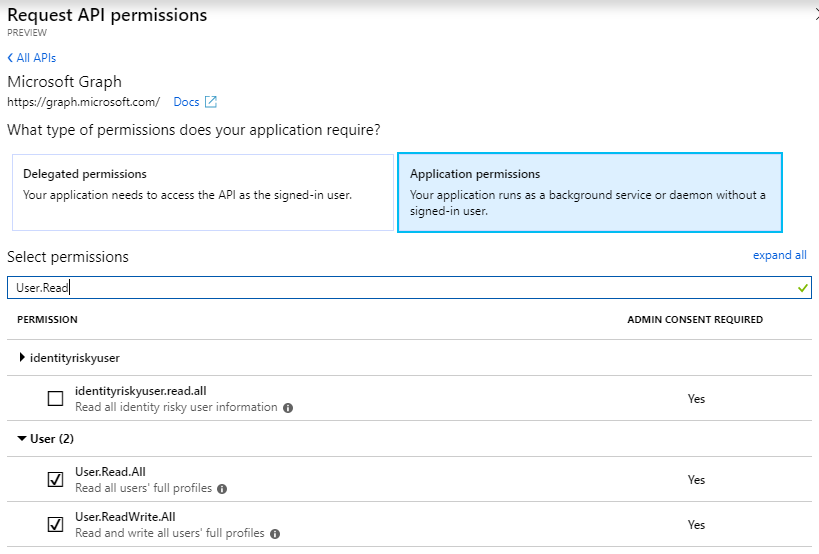
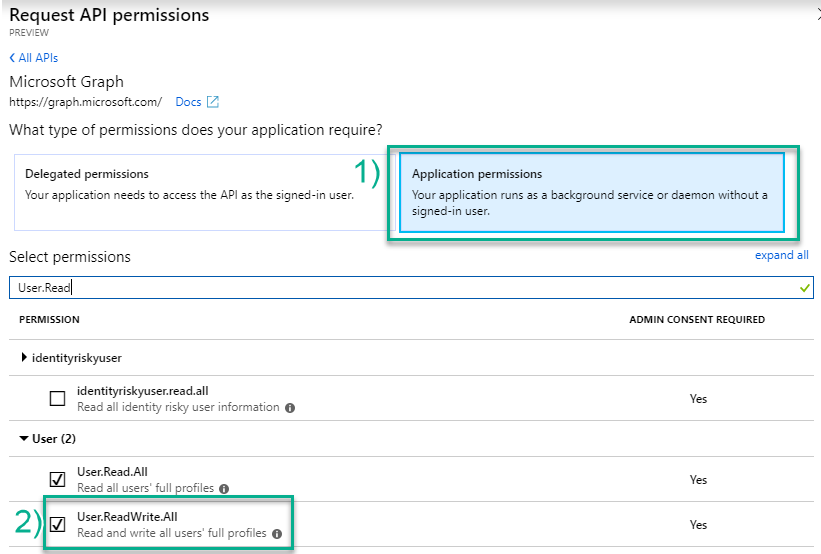
fixing images and typos

diff --git a/day16-create-user/README.md b/day16-create-user/README.md
@@ -2,7 +2,7 @@
 
 - [Day 16 - Create a new User](#day-16-create-a-new-user)
     - [Prerequisites](#prerequisites)
-    - [Step 1: Update the App Registration permissions](#step-1-update-the-app-rgistration-permissions)
+    - [Step 1: Update the App Registration permissions](#step-1-update-the-app-registration-permissions)
     - [Step 2: Extend the app to create users](#step-2-extend-the-app-to-create-users)
         - [Create the UserHelper class](#create-the-userhelper-class)
         - [Extend program to create users](#extend-program-to-create-users)
@@ -53,7 +53,7 @@ As this exercise requires new permissions the App Registration needs to be updat
     1. Click **Add permissions** at the bottom of flyout.
 
 1. Back on the API permissions content blade, click **Grant admin consent for \<name of tenant\>**.
-**need new screenshot here**
+
     ![Screenshot of granting admin consent for newly added permission](Images/aad-create-app-07.png)
 
     1. Click **Yes**.
@@ -62,7 +62,7 @@ As this exercise requires new permissions the App Registration needs to be updat
 
 In this step you will create a UserHelper class that encapsulates the logic for creating users and finding user objects by alias and then add calls to the console application created in the [Base Console Application Setup](../base-console-app/) to provision a new user.
 
-### Create UserHelper class
+### Create the UserHelper class
 
 1. Create a new file in the `Helpers` folder called `UserHelper.cs`.
 1. Replace the contents of `UserHelper.cs` with the following code:
